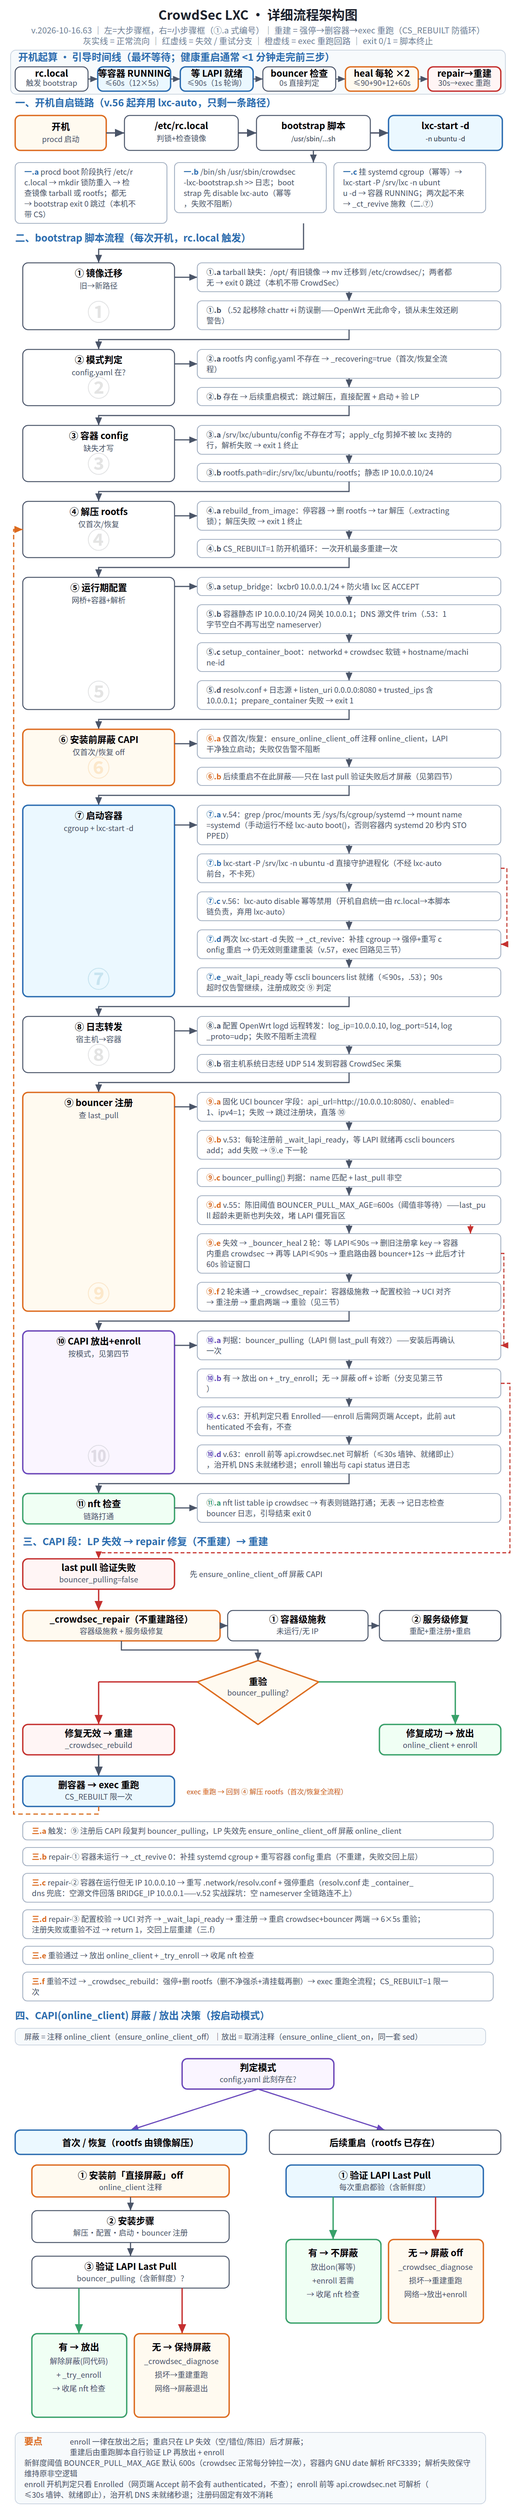
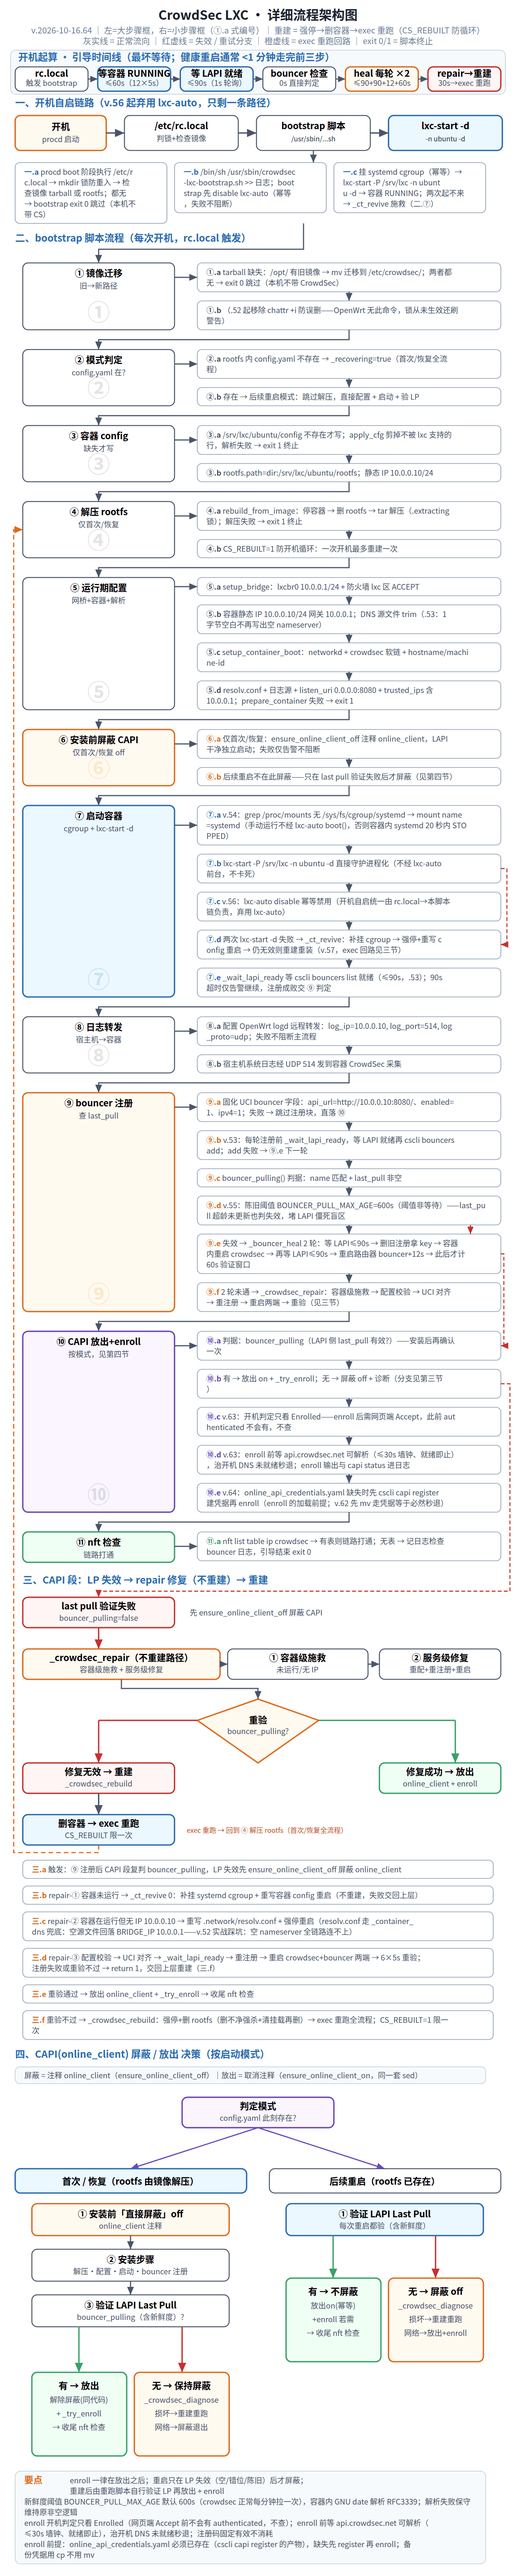
enroll 前置修正（v.64）：凭据文件缺失时先 cscli capi register 再 enroll；备份凭据 cp 不再 mv——v.62 先移走凭据再 enroll 等于必然秒退，源码级实锤并修复

diff --git a/README.md b/README.md
@@ -31,7 +31,7 @@ crowdsec的初次运行需要时间自动进行初始化安装，无需网络也
 **注意 3
 防火墙里面的NAT规则LXC-SNAT不要动它，它会在编译时会自动修改对应IP地址到出接口的IP。
 
-# crowdsec 引导流程图（v.63）
+# crowdsec 引导流程图（v.64）
 每次开机 rc.local 触发引导脚本后的完整执行链路：**左=大步骤框，右=小步骤框（①.a 式编号）**，含每个小步骤失效后的去向。
 
 ![CrowdSec LXC 引导流程图](docs/crowdsec-flow.png)
@@ -42,7 +42,7 @@ crowdsec的初次运行需要时间自动进行初始化安装，无需网络也
 - 脚本本体：[files/usr/sbin/crowdsec-lxc-bootstrap.sh](files/usr/sbin/crowdsec-lxc-bootstrap.sh)
 - 图源文件：[docs/crowdsec-flow.svg](docs/crowdsec-flow.svg)，改图用生成器 [docs/gen_flow.py](docs/gen_flow.py)（python3 gen_flow.py）
 
-## 从开机到放出的时间线（v.63）
+## 从开机到放出的时间线（v.64）
 
 引导脚本每次开机由 rc.local 触发。下表把每一段的**等待性质**写明白（都是上限，条件满足立即通过）：
 
@@ -77,6 +77,11 @@ enroll 判定（v.63 起简化）：
 - 开机判定**只看 Enrolled**：`cscli console status` 的 Enrolled 行不是否定态（`not enrolled`/`false`）就算已注册。**authenticated 不查**——`cscli console enroll` 后必须先到网页端 app.crowdsec.net 点 Accept enroll，之前本来就是未 authenticated，拿它当开机判据只会每次误判异常、反复重注册
 - enroll 前先等 `api.crowdsec.net` 可解析（≤30s 墙钟、每秒一探、就绪即止），治开机时 DNS/mosdns 未就绪导致的**秒退**；enroll 命令的输出和 `cscli capi status` 都写进日志，失败有据可查
 - 注册码**固定有效、不消耗**，反复 enroll 无代价；enroll 成功后等网页端 Accept 即可，无需脚本干预
+
+enroll 前置条件（v.64 起修正，源码级实锤）：
+
+- `cscli console enroll` 的加载链（`require.LAPI`→`LoadAPIServer`，1.4～1.8 各版一致）**要求 `online_api_credentials.yaml` 已存在**，否则 enroll 在配置加载阶段就秒退，报 `failed to load Local API: loading online client credentials: ... no such file`。该文件由 **`cscli capi register`** 创建（生成机器 ID+密码→注册 CAPI→写文件），官方安装流程里它先于 enroll
+- 因此脚本在 enroll 前检查该文件，**缺失时先跑 `cscli capi register`** 再 enroll；备份凭据用 `cp` 不用 `mv`——v.62 及更早先 `mv` 走再 enroll，文件不在场等于必然秒退，**脚本 enroll 从来不可能成功**（错误还被 `>/dev/null 2>&1` 吞掉，表现为"手动能注册、脚本必失败"）
 
 # mosdns 与容器 DNS（redirect 开启后容器解析失败的排查）
 
